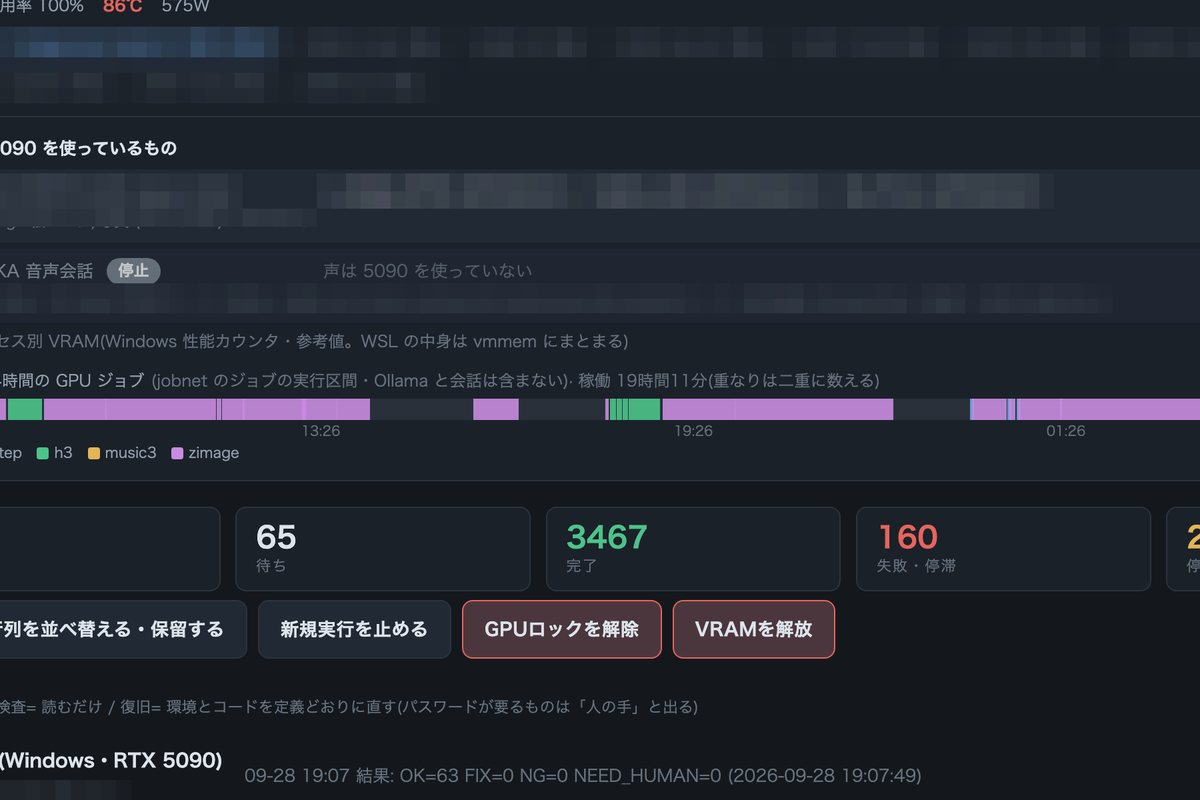
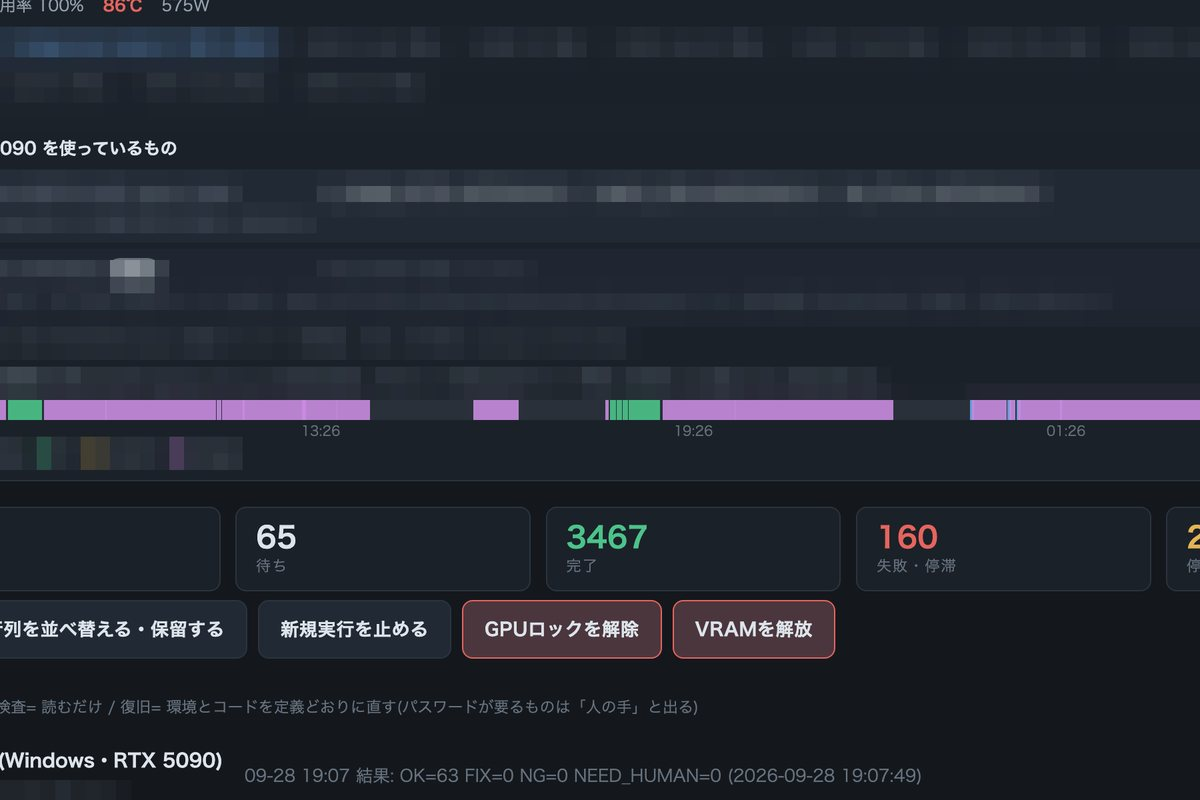
つくりかた: GPU の切り出し(s05)のぼかしを広げる(OCR 検査 _screen_privacy_check.py で 5 行残っていた: WSL/vmmem・Ollama・Whisper・凡例のエンジン名・:8188)→ 0 行

diff --git a/engineering.html b/engineering.html
@@ -210,7 +210,7 @@ a.st-tile:hover img{filter:saturate(.95) brightness(.9);transform:scale(1.03)}
         <div class="eng-step reveal"><img class="pv" src="assets/eng/s02_plan.jpg?v=20261020a" alt="" loading="lazy" decoding="async" width="1200" height="800"><span class="n" data-noi18n>02</span><span class="who a">AI</span><div class="t">台本と一覧<span class="src">MV テンプレの棚。カット数と尺つき</span></div><p class="p">場面・台詞・尺・費用の一覧と、投入の台本を書く。</p></div>
         <div class="eng-step reveal"><img class="pv" src="assets/eng/s03_mark.jpg?v=20261020b" alt="" loading="lazy" decoding="async" width="1200" height="800"><span class="n" data-noi18n>03</span><span class="who h">HUMAN</span><div class="t">許可の印<span class="src">jobnet の列。左端の印で選ぶ</span></div><p class="p">一覧を見て、本番に進めてよいものに印を付ける。</p></div>
         <div class="eng-step reveal"><img class="pv" src="assets/eng/s04_queue.jpg?v=20261020b" alt="" loading="lazy" decoding="async" width="1200" height="800"><span class="n" data-noi18n>04</span><span class="who m">MACHINE</span><div class="t">列に並ぶ<span class="src">待ち行列。予約の時刻つき</span></div><p class="p">印と設定の欠けを検査し、通ったものだけ列へ。</p></div>
-        <div class="eng-step reveal"><img class="pv" src="assets/eng/s05_gpu.jpg?v=20261020b" alt="" loading="lazy" decoding="async" width="1200" height="800"><span class="n" data-noi18n>05</span><span class="who m">MACHINE</span><div class="t">生成<span class="src">GPU の表示。VRAM・温度・24 時間の稼働</span></div><p class="p">写真・動画・曲・声。空いた GPU が順に埋める。夜も。</p></div>
+        <div class="eng-step reveal"><img class="pv" src="assets/eng/s05_gpu.jpg?v=20261020c" alt="" loading="lazy" decoding="async" width="1200" height="800"><span class="n" data-noi18n>05</span><span class="who m">MACHINE</span><div class="t">生成<span class="src">GPU の表示。VRAM・温度・24 時間の稼働</span></div><p class="p">写真・動画・曲・声。空いた GPU が順に埋める。夜も。</p></div>
         <div class="eng-step reveal"><img class="pv" src="assets/eng/s06_check.jpg?v=20261020a" alt="" loading="lazy" decoding="async" width="1200" height="800"><span class="n" data-noi18n>06</span><span class="who m">MACHINE</span><div class="t">自動検査<span class="src">顔検出の枠と、スマホの枠</span></div><p class="p">話す動画の聞き取り、つなぎ目の音、肌のざらつき。</p></div>
         <div class="eng-step reveal"><img class="pv" src="assets/eng/s07_choose.jpg?v=20261020a" alt="" loading="lazy" decoding="async" width="1200" height="800"><span class="n" data-noi18n>07</span><span class="who h">HUMAN</span><div class="t">採否を決める<span class="src">草履の 4 案の見比べ。採ったのは右上</span></div><p class="p">曲は耳で、カットは目で。手足や顔の崩れも最後は人。</p></div>
         <div class="eng-step reveal"><img class="pv" src="assets/eng/s08_publish.jpg?v=20261020a" alt="" loading="lazy" decoding="async" width="1200" height="800"><span class="n" data-noi18n>08</span><span class="who h">HUMAN</span><div class="t">仕上げと公開<span class="src">YouTube のチャンネル</span></div><p class="p">4K の仕上げは列で。公開のボタンは毎回、人が押す。</p></div>
